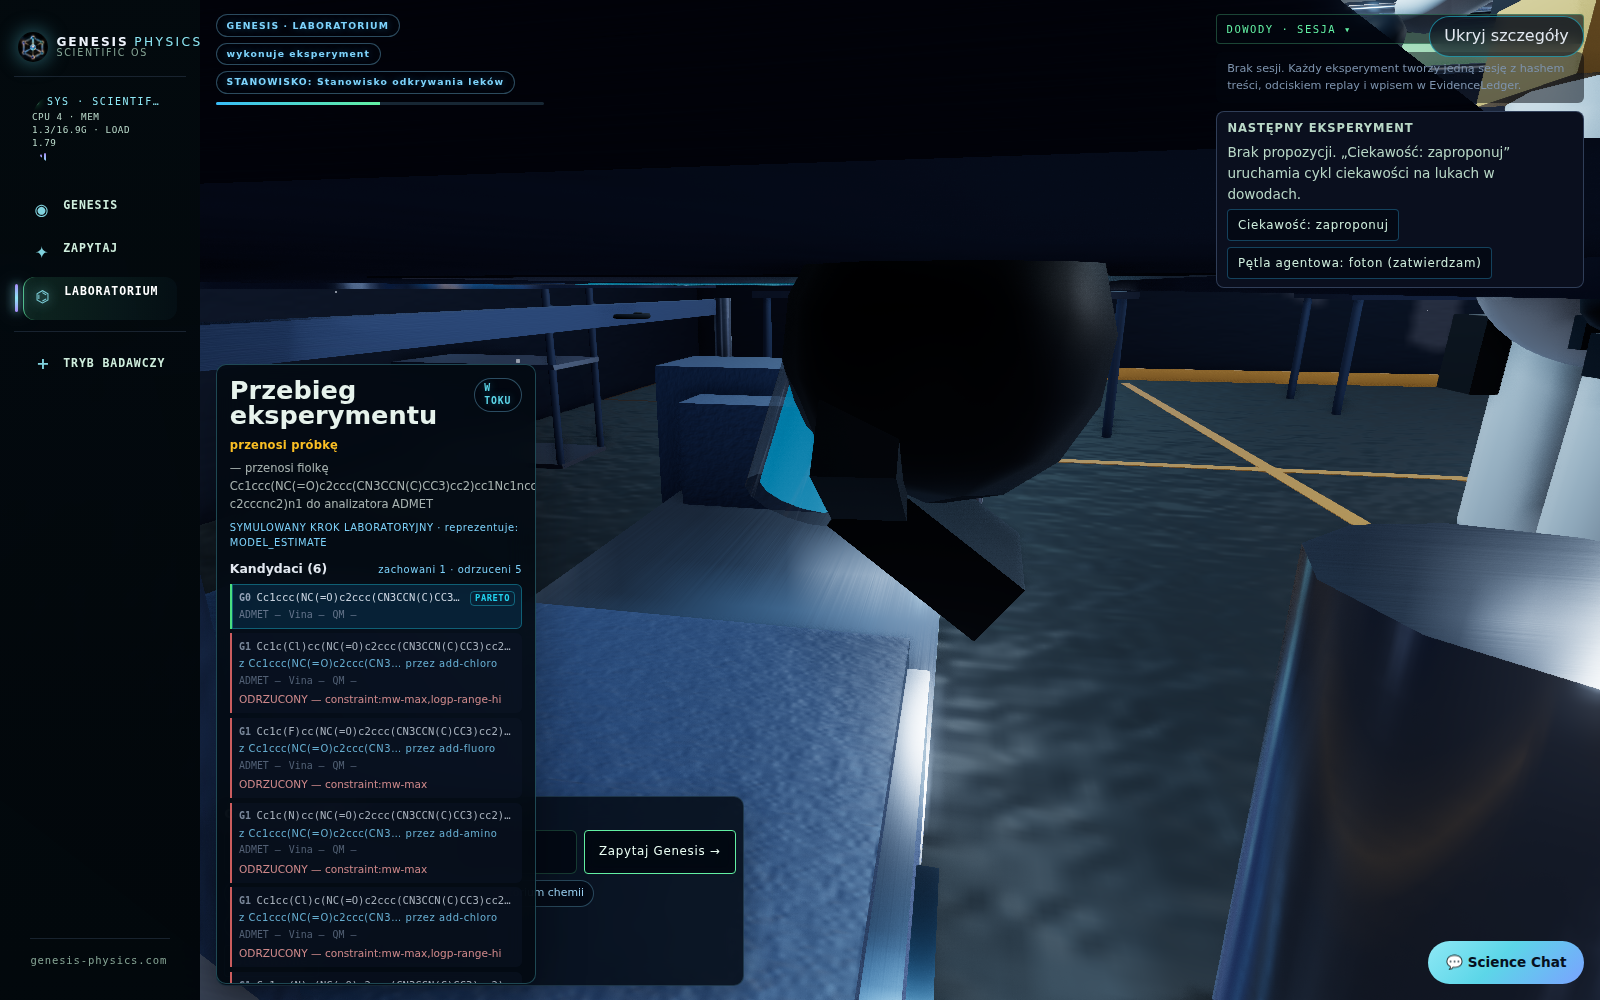
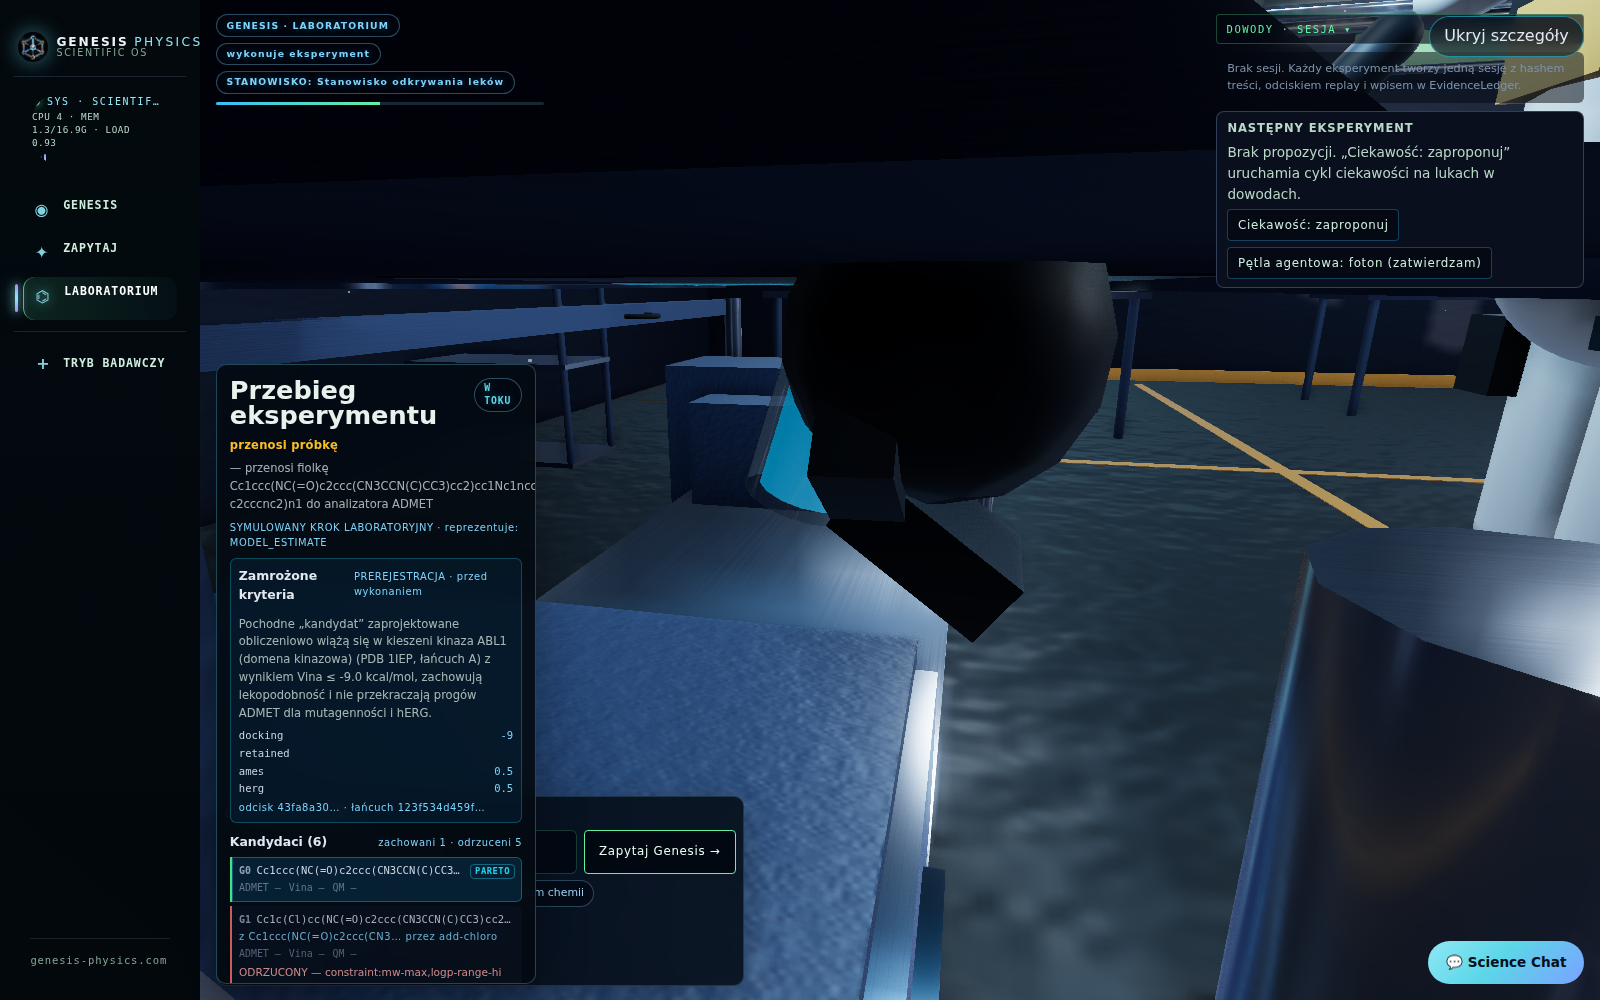
feat(lab): the frozen criteria are on screen while the engines run
"We fixed the criteria before we computed" is the whole claim, and until now a
viewer had to take it on faith: the criteria appeared only in the final protocol,
after the run, which is exactly when a sceptic stops believing them.

The live run state carries that a preregistration record EXISTS, with its id and
chain hash, but not the criteria themselves. So they are read from the campaign's
scientific memory and shown at the top of the panel, during the run, with the
record's fingerprint and chain hash next to them. The read retries while the record
is not yet written and stops the moment it arrives.

The lab never evaluates a criterion. When the sealed session exists, the server's
own check of it against the preregistration is displayed verbatim; nothing on this
screen re-derives a verdict, and the client-side working hypothesis rendered
elsewhere is kept distinct from this server record.

Verified on a real campaign: 4 criteria listed while data-phase is RUNNING_CAMPAIGN,
alongside 6 candidates and 5 rejections. On one screen a viewer now sees the
threshold that was frozen (Vina <= -9.0 kcal/mol, ADMET limits for mutagenicity and
hERG), its fingerprint, and each candidate that failed it with the constraint named.
The E2E asserts the criteria count, so this cannot quietly regress to being visible
only after the fact.

Also records the AiZynthFinder EXTERNAL_RESOURCE_BLOCKER. Every legal route from
[…]

diff --git a/packages/frontend/src/components/ScientificWorldsScreen.tsx b/packages/frontend/src/components/ScientificWorldsScreen.tsx
@@ -44,7 +44,7 @@ import { NextExperimentPanel, ScientificOutcomePanel } from './ScientificOutcome
 import { LoadingStatus } from './LoadingStatus';
 import { estimateDuration, recordDuration } from '../core/product/durationEstimate';
 import { getToken } from '../core/backend/session';
-import { getCandidateProtocol, type CandidateProtocol } from '../core/backend/client';
+import { getCandidateProtocol, getExperimentMemory, type CandidateProtocol } from '../core/backend/client';
 import { getLiveDrugRun, liveDrugRunGate, replayDrugRunEngines, startLiveDrugRun, subscribeLiveDrugRuns, type EngineReplayVerdict, type LiveDrugRun } from '../core/liveExperiment/liveDrugRun';
 import { DrugBenchLayer, focusCandidate, withDrugBenchLayer } from '../core/liveExperiment/drugBenchLayer';
 import { BENCH_ZONES, benchLayoutOf, type BenchZone } from '../core/liveExperiment/drugBenchLayout';
@@ -188,6 +188,14 @@ export function ScientificWorldsScreen({ world = 'physics' }: { readonly world?:
   /** The final protocol, exactly as the backend assembled it from the record. Null until the run ends. */
   const [protocol, setProtocol] = useState<CandidateProtocol | null>(null);
   /**
+   * THE FROZEN CRITERIA, as the SERVER stored them before the first engine ran. The run state carries
+   * only the fact that a preregistration record exists, with its id and chain hash — not the criteria
+   * themselves — so they are read from the campaign's scientific memory and shown WHILE the run is
+   * going, which is the only moment at which "frozen before execution" can be believed by a viewer.
+   * This is the server's record, never the client-side working hypothesis rendered elsewhere.
+   */
+  const [preregBody, setPreregBody] = useState<Record<string, unknown> | null>(null);
+  /**
    * The lab shows the WORLD, not a dashboard: by default every panel is out of the way and the
    * readouts live on the instruments in the scene. One control opens the details (evidence, replay,
    * provenance), because evidence must stay reachable — it is hidden, never removed.
@@ -295,6 +303,31 @@ export function ScientificWorldsScreen({ world = 'physics' }: { readonly world?:
     const id = setInterval(read, 250);
     return () => clearInterval(id);
   }, [world, drugRun, benchLayer]);
+  // The frozen criteria, read once per campaign from the server's own scientific memory. It retries
+  // while the record is not there yet (the preregistration is written as the run starts) and stops the
+  // moment it has it — this is a read of what the server froze, so it is fetched, never recomputed.
+  const preregCampaign = drugRun?.campaignId ?? null;
+  const preregProject = drugRun?.projectId ?? null;
+  useEffect(() => {
+    setPreregBody(null);
+    if (!preregCampaign || !preregProject) return;
+    const token = getToken();
+    if (!token) return;
+    let stop = false;
+    let attempts = 0;
+    const read = (): void => {
+      if (stop || attempts > 40) return;
+      attempts += 1;
+      void getExperimentMemory(token, preregProject, preregCampaign).then((r) => {
+        if (stop) return;
+        const body = r.ok ? r.data.preregistration?.body ?? null : null;
+        if (body) setPreregBody(body);
+        else setTimeout(read, 6000);
+      });
+    };
+    read();
+    return () => { stop = true; };
+  }, [preregCampaign, preregProject]);
   // Measured load time of this world: the next visit counts down from it (never a guessed number).
   const loadStartedAt = useRef(performance.now());
   const [loadEstimate] = useState(() => estimateDuration(`lab:${world}`));
@@ -705,6 +738,51 @@ export function ScientificWorldsScreen({ world = 'physics' }: { readonly world?:
                 <span className="sw-procedure-label">SYMULOWANY KROK LABORATORYJNY · reprezentuje: {hand.represents}</span>
               </p>
             )}
+            {/* WHAT WAS FROZEN BEFORE ANY ENGINE RAN. Shown during the run, because that is the only
+                moment at which "the criteria were fixed in advance" is something a viewer can watch
+                rather than be told afterwards. Every value is the server's stored record. */}
+            {preregBody != null && (() => {
+              const criteria = Array.isArray(preregBody.criteria) ? preregBody.criteria as Record<string, unknown>[] : [];
+              const statement = typeof preregBody.statement === 'string' ? preregBody.statement : null;
+              const fingerprint = typeof preregBody.fingerprint === 'string' ? preregBody.fingerprint : null;
+              return (
+                <section className="sw-prereg" data-testid="drug-prereg" data-criteria={criteria.length}
+                  data-prereg-record={drugRun.preregistration?.recordId ?? ''}>
+                  <div className="sw-cand-head">
+                    <strong>Zamrożone kryteria</strong>
+                    <span className="sw-procedure-label">PREREJESTRACJA · przed wykonaniem</span>
+                  </div>
+                  {statement && <p className="sw-prereg-statement">{statement}</p>}
+                  {criteria.length > 0 && (
+                    <ul className="sw-prereg-list">
+                      {criteria.map((c, i) => {
+                        const id = typeof c.id === 'string' ? c.id : `kryterium ${i + 1}`;
+                        const thr = typeof c.threshold === 'number' ? c.threshold : null;
+                        const dir = typeof c.direction === 'string' ? c.direction : null;
+                        const unit = typeof c.unit === 'string' ? c.unit : '';
+                        return (
+                          <li key={id} data-criterion={id}>
+                            <span className="sw-prereg-id">{id}</span>
+                            {thr != null && <span className="sw-prereg-thr">{dir ? `${dir} ` : ''}{thr}{unit ? ` ${unit}` : ''}</span>}
+                          </li>
+                        );
+                      })}
+                    </ul>
+                  )}
+                  <span className="sw-procedure-label">
+                    {fingerprint ? `odcisk ${fingerprint.slice(0, 16)}…` : 'odcisk niezapisany'}
+                    {drugRun.preregistration?.chainHash ? ` · łańcuch ${drugRun.preregistration.chainHash.slice(0, 12)}…` : ''}
+                  </span>
+                  {/* The server's own check of the sealed session against these criteria, once it exists.
+                      The lab never evaluates the criteria itself. */}
+                  {drugRun.sealed?.check && (
+                    <span className={`sw-prereg-check is-${drugRun.sealed.check.toLowerCase()}`} data-prereg-check={drugRun.sealed.check}>
+                      Sprawdzenie serwera wobec prerejestracji: {drugRun.sealed.check}
+                    </span>
+                  )}
+                </section>
+              );
+            })()}
             {/* EVERY CANDIDATE, AS IT HAPPENS. The run's own read model already carried each candidate's
                 generation, parent, transformation, per-engine result and rejection reason; the panel used
                 to show only a count and the one candidate in focus, so a viewer could not see the science

diff --git a/packages/e2e/src/liveCandidatesVisible.e2e.spec.ts b/packages/e2e/src/liveCandidatesVisible.e2e.spec.ts
@@ -3,9 +3,9 @@ const chromiumPath = process.env.CHROME;
 test.use({ launchOptions: { ...(chromiumPath ? { executablePath: chromiumPath } : {}) } });
 const API = 'http://127.0.0.1:8080';
 const OUT = 'artifacts/live';
-async function api(p: string, t: string | null, b?: unknown) {
+async function api(p: string, t: string | null, b?: unknown): Promise<Record<string, unknown>> {
   const r = await fetch(`${API}${p}`, { method: b === undefined ? 'GET' : 'POST', headers: { 'content-type': 'application/json', ...(t ? { authorization: `Bearer ${t}` } : {}) }, ...(b === undefined ? {} : { body: JSON.stringify(b) }) });
-  return r.json() as Promise<Record<string, any>>;
+  return r.json() as Promise<Record<string, unknown>>;
 }
 test('live run: every candidate is visible in the UI while the engines are still computing', async ({ page }) => {
   test.setTimeout(900_000);
@@ -13,9 +13,9 @@ test('live run: every candidate is visible in the UI while the engines are still
   const reg = await api('/api/auth/register', null, { email: `live-${Date.now()}@l.org`, password: 'password123' });
   const token = reg.token as string;
   const pr = await api('/api/projects', token, { name: 'live' });
-  const pid = pr.project.id as string;
+  const pid = (pr.project as { id: string }).id;
   const c = await api(`/api/projects/${pid}/campaigns`, token, { objective: `live ${Date.now()}`, domain: 'DRUG_DISCOVERY', startingSmiles: ['Cc1ccc(NC(=O)c2ccc(CN3CCN(C)CC3)cc2)cc1Nc1nccc(-c2cccnc2)n1'], budget: { maxGenerations: 2, maxGeneratedCandidates: 6 } });
-  const cid = c.campaign.id as string;
+  const cid = (c.campaign as { id: string }).id;
   await page.addInitScript(({ t, u }) => {
     window.localStorage.setItem('genesis-os:onboarding/v1', JSON.stringify({ completed: true }));
     window.localStorage.setItem('genesis-os:session/v1', JSON.stringify({ token: t, user: u }));
@@ -28,6 +28,7 @@ test('live run: every candidate is visible in the UI while the engines are still
   await live.waitFor({ state: 'visible', timeout: 300_000 });
 
   // The candidate list must appear WHILE the run is still going, not only at the end.
+  const prereg = page.getByTestId('drug-prereg');
   const list = page.getByTestId('drug-candidate-list');
   await list.waitFor({ state: 'visible', timeout: 600_000 });
   const stillRunning = await live.getAttribute('data-phase');
@@ -38,6 +39,12 @@ test('live run: every candidate is visible in the UI while the engines are still
   await page.screenshot({ path: `${OUT}/live-candidates.png` });
   expect(rows, 'candidate rows rendered while running').toBeGreaterThan(0);
   expect(geo.x, 'panel starts clear of the 200px sidebar').toBeGreaterThanOrEqual(200);
+  // The criteria the server froze BEFORE any engine ran must be on screen while it is still running.
+  await prereg.waitFor({ state: 'visible', timeout: 120_000 });
+  const nCrit = Number(await prereg.getAttribute('data-criteria'));
+  // eslint-disable-next-line no-console
+  console.log(`LIVE prereg criteria=${nCrit}`);
+  expect(nCrit, 'frozen criteria listed during the run').toBeGreaterThan(0);
 
   // Let it finish and photograph the moment candidates carry docking numbers and rejection reasons.
   await page.waitForTimeout(90_000);

diff --git a/packages/frontend/src/styles.css b/packages/frontend/src/styles.css
@@ -5929,6 +5929,16 @@ html, body, #root { min-height: 100%; background: #000 !important; }
 .sw-drug-live .sw-drug-dl dt { color: #94a3b8; }
 .sw-drug-live .sw-drug-dl dd { margin: 0; overflow-wrap: anywhere; }
 .sw-drug-note { font-size: 0.75rem; color: #94a3b8; margin: 0.3rem 0 0; }
+/* The frozen criteria, shown while the run is going. */
+.sw-prereg { display: grid; gap: 0.2rem; margin: 0.5rem 0 0.1rem; padding: 0.4rem 0.5rem;
+  border: 1px solid rgba(34, 211, 238, 0.28); border-radius: 0.4rem; background: rgba(8, 47, 73, 0.35); }
+.sw-prereg-statement { margin: 0; font-size: 0.72rem; color: #e2e8f0; }
+.sw-prereg-list { list-style: none; margin: 0.15rem 0 0; padding: 0; display: grid; gap: 0.12rem; }
+.sw-prereg-list li { display: flex; justify-content: space-between; gap: 0.5rem; font: 0.66rem/1.5 var(--font-mono, monospace); }
+.sw-prereg-id { color: #cbd5e1; }
+.sw-prereg-thr { color: #7dd3fc; flex: none; }
+.sw-prereg-check { font: 600 0.64rem/1.5 var(--font-mono, monospace); color: #86efac; }
+.sw-prereg-check.is-mismatch, .sw-prereg-check.is-failed { color: #fca5a5; }
 /* The live candidate list: one row per candidate the run has produced, with what each engine said about
    it and, when it was thrown out, why. */
 .sw-cand-wrap { margin: 0.55rem 0 0.2rem; }

diff --git a/docs/GENESIS_RETRO_MODEL_FILES.md b/docs/GENESIS_RETRO_MODEL_FILES.md
@@ -1,5 +1,43 @@
 # AiZynthFinder — pliki modelu, których Genesis potrzebuje (pakiet dostawczy D-1)
 
+## EXTERNAL_RESOURCE_BLOCKER — 2026-09-26
+
+Wyczerpałem legalne drogi z tego środowiska. Wynik, zmierzony:
+
+| Droga | Wynik |
+|---|---|
+| `zenodo.org` (4 z 5 plików) | **ODMOWA** — gateway odpowiada 403 na CONNECT (polityka sieci) |
+| `ndownloader.figshare.com` (stock) | **ODMOWA** — jw. |
+| `huggingface.co` | ODMOWA |
+| GitHub releases `MolecularAI/aizynthfinder` | brak assetów z modelami — repozytorium zawiera wyłącznie kod |
+| PyPI `aizynthfinder` 4.4.1 | osiągalne, ale **paczka ma 131 kB — sam kod**, żadnych modeli |
+| PyPI: `aizynthmodels`, `aizynthfinder-models`, `uspto-templates`, `rxnutils` | **nie istnieją** (404) |
+
+Potwierdzenie z samego silnika, nie z mojej pamięci: pobrałem źródło 4.4.1 z PyPI i odczytałem
+`aizynthfinder/tools/download_public_data.py`. Jedynymi oficjalnymi adresami są `zenodo.org`
+(polityka rozszerzania, szablony, ringbreaker, filtr) i `ndownloader.figshare.com` (stock ZINC).
+Innego oficjalnego źródła **nie ma** — więc nie istnieje legalna droga w obrębie tego środowiska.
+
+**Czego potrzebuję od właściciela — jedna czynność:**
+w ustawieniach środowiska (menu środowiska chmurowego na pasku tytułu sesji → Edit) zmienić
+**Network access**: albo szerszy poziom dostępu, albo dopisać do dozwolonych domen:
+
+```
+zenodo.org
+ndownloader.figshare.com
+```
+
+Poziomy dostępu opisano na https://code.claude.com/docs/en/claude-code-on-the-web
+
+Po odblokowaniu wykonuję bez pytania: pobranie → sha256 → `detect()` → benchmark aspiryny →
+retrosynteza finalisty HERO → Evidence → Replay → część B protokołu.
+
+**Alternatywa, jeśli polityki nie chcesz zmieniać:** pliki, które już masz na telefonie, wystarczy
+umieścić w dowolnym katalogu maszyny docelowej i wskazać `GENESIS_RETRO_MODEL_DIR` (§3 niżej).
+Do repozytorium ich nie wkładamy — mają własne licencje upstream.
+
+Reszta łańcucha HERO **nie czeka na to** i idzie dalej.
+
 Zamówienie właściciela z 2026-09-26. Wszystko poniżej pochodzi **z kodu adaptera**
 (`packages/backend/src/compute/retro_worker.py`, stałe `REQUIRED_FILES` / `OPTIONAL_FILES`), nie z
 pamięci. Silnik jest już zintegrowany i importuje się poprawnie; brakuje wyłącznie danych modelu,
